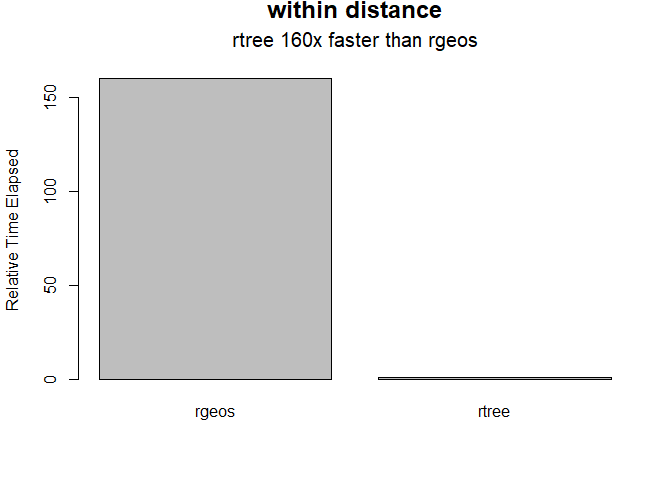
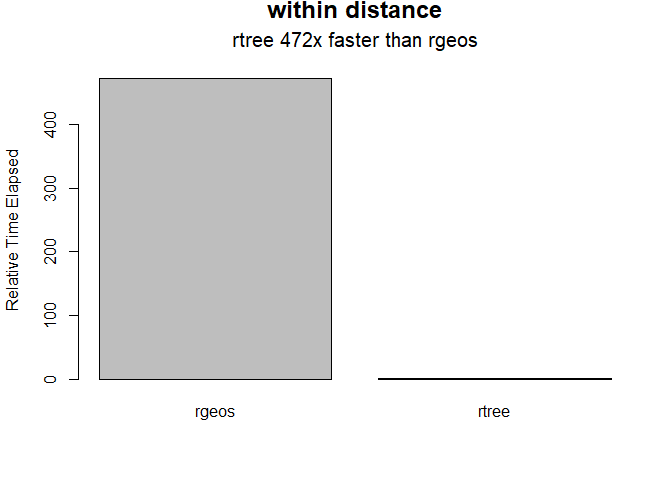
Cleanup README - remove dependency on `plotrix` - shorter lines

diff --git a/README.md b/README.md
@@ -1,7 +1,3 @@
-rtree package
-================
-Philipp Hunziker & Kent Johnson
-2021-05-03
 
 The rtree package offers fast Euclidean within-distance checks and KNN
 calculations for points in 2D space. It offers significant speed-ups
@@ -106,14 +102,12 @@ print(wd_ls[[1]])
 We can also check the sanity of the result visually:
 
 ``` r
-library(plotrix)
-
 ## Plot points in B within distance d of point a_1
 a_1 <- A[1,]  # Get coords of a_1
 plot(a_1[1], a_1[2], xlim=c(a_1[1]-d, a_1[1]+d), ylim=c(a_1[2]-d, a_1[2]+d), 
      col='black', asp=1, pch=20, xlab='x', ylab='y')  # Plot a_1
 points(B[,1], B[,2], col='grey')  # Plot B in grey
-draw.circle(a_1[1], a_1[2], d)  # Draw circle of radius d
+symbols(a_1[1], a_1[2], circles=d, add=TRUE, inches=FALSE)  # Draw circle of radius d
 b_wd <- B[wd_ls[[1]],]  # Get relevant points in B
 points(b_wd[,1], b_wd[,2], col='red', pch=20)  # Plot relevant points in red
 ```
@@ -138,8 +132,6 @@ that each element of knn\_ls is exactly of length *k*.
 Again, we may plot the result to inspect its veracity:
 
 ``` r
-library(plotrix)
-
 ## Plot points in B within distance d of point a_1
 a_1 <- A[1,]  # Get coords of a_1
 plot(a_1[1], a_1[2], xlim=c(a_1[1]-d, a_1[1]+d), ylim=c(a_1[2]-d, a_1[2]+d), 
@@ -156,7 +148,7 @@ points(b_knn[,1], b_knn[,2], col='red', pch=20) # Plot relevant points in red
 ### Within-Distance Benchmarks
 
 We first compare the within-distance functionality to the
-gWithinDistance function offered in
+`gWithinDistance()` function offered in
 [rgeos](https://cran.r-project.org/package=rgeos) (version 0.5.5).
 
 ``` r
@@ -175,7 +167,8 @@ d <- 0.05
 
 ## Encapsulate wd operations in functions, then benchmark
 rgeos.wd <- function() {
-  wd_mat <- gWithinDistance(spgeom1=SpatialPoints(A), spgeom2=SpatialPoints(B), dist=d, byid=TRUE)
+  wd_mat <- gWithinDistance(spgeom1=SpatialPoints(A), spgeom2=SpatialPoints(B), 
+                            dist=d, byid=TRUE)
 }
 rtree.wd <- function() {
   wd_ls <- withinDistance(RTree(B), A, d)
@@ -190,8 +183,8 @@ print(bm.wd)
 ```
 
     ##    test replications elapsed relative
-    ## 2 rgeos           10    4.80      160
-    ## 1 rtree           10    0.03        1
+    ## 2 rgeos           10    4.72      472
+    ## 1 rtree           10    0.01        1
 
 ``` r
 ## Plot
@@ -208,7 +201,7 @@ mtext(paste("rtree ", speedup, "x faster than rgeos", sep=""),
 ### KNN Benchmarks
 
 Next we compare the KNN functionality with the KNN implementation based
-on kd-trees offered in the [FNN](https://cran.r-project.org/package=FNN)
+on d-trees offered in the [FNN](https://cran.r-project.org/package=FNN)
 package (version 1.1). We don’t offer benchmarking statistics against a
 linear search KNN implementation, which would obviously be much, much
 slower.
@@ -242,8 +235,8 @@ print(bm.knn)
 ```
 
     ##     test replications elapsed relative
-    ## 2 kdtree           10    1.58    1.629
-    ## 1  rtree           10    0.97    1.000
+    ## 2 kdtree           10    1.50    1.685
+    ## 1  rtree           10    0.89    1.000
 
 ``` r
 ## Plot
